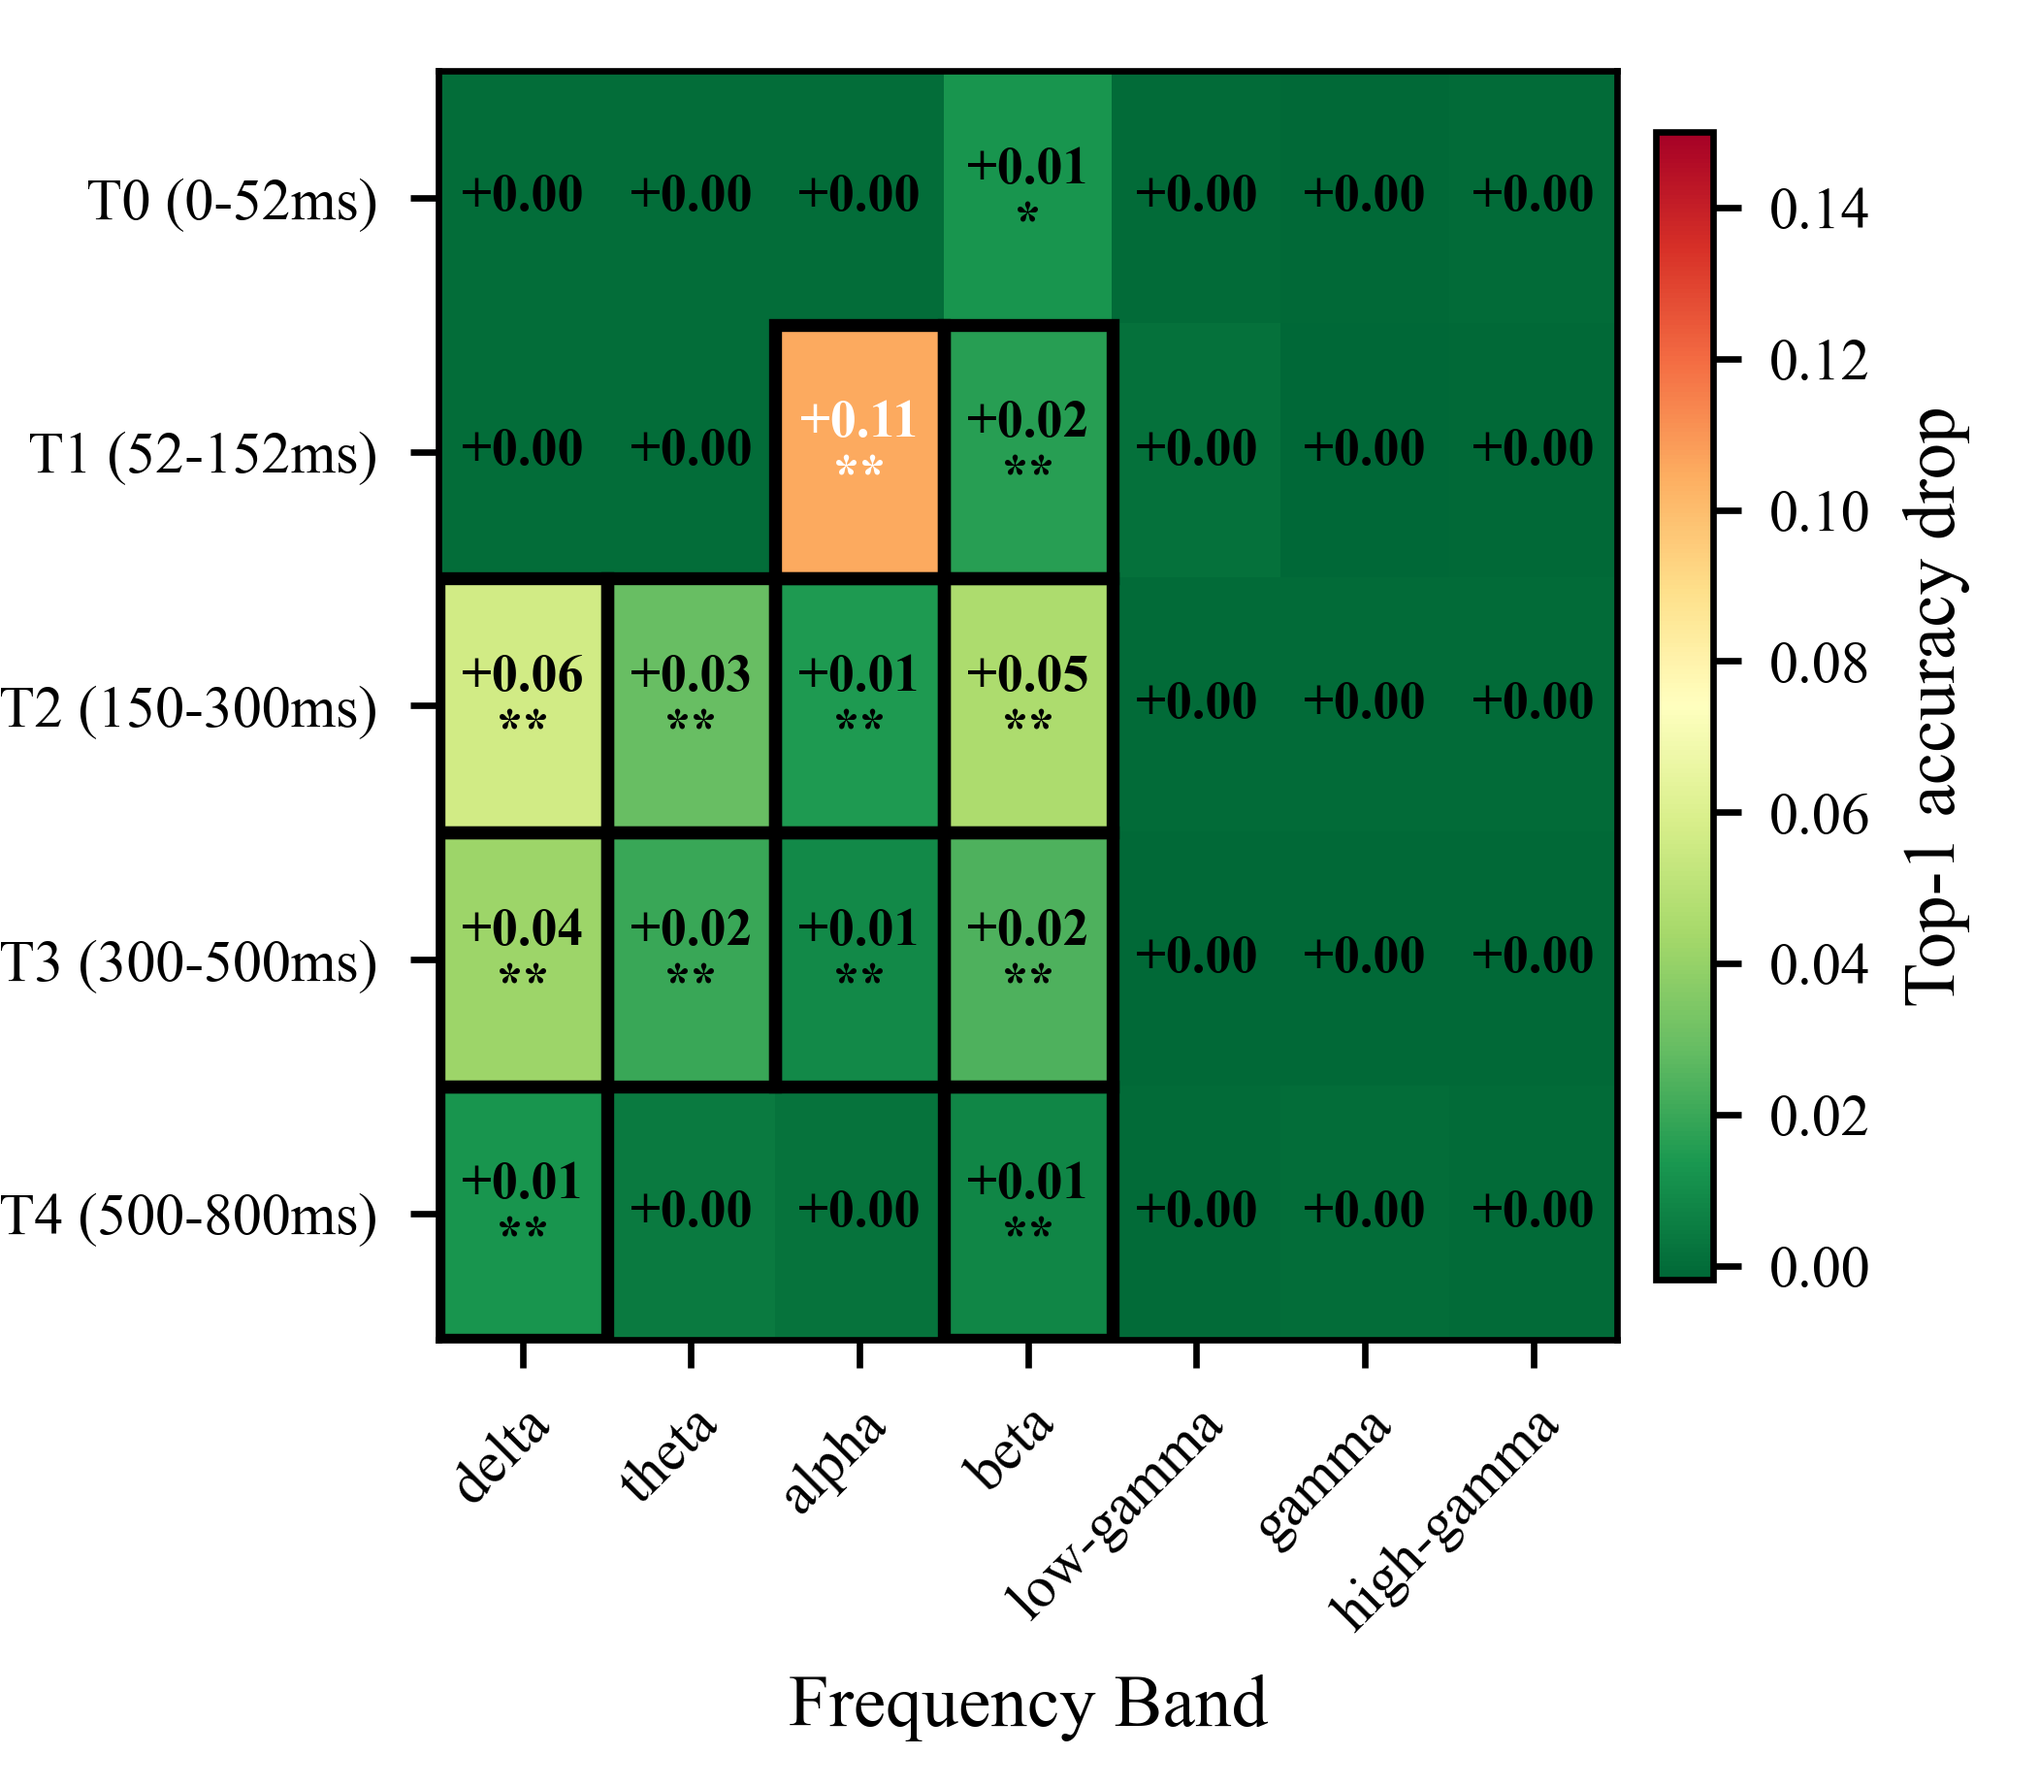
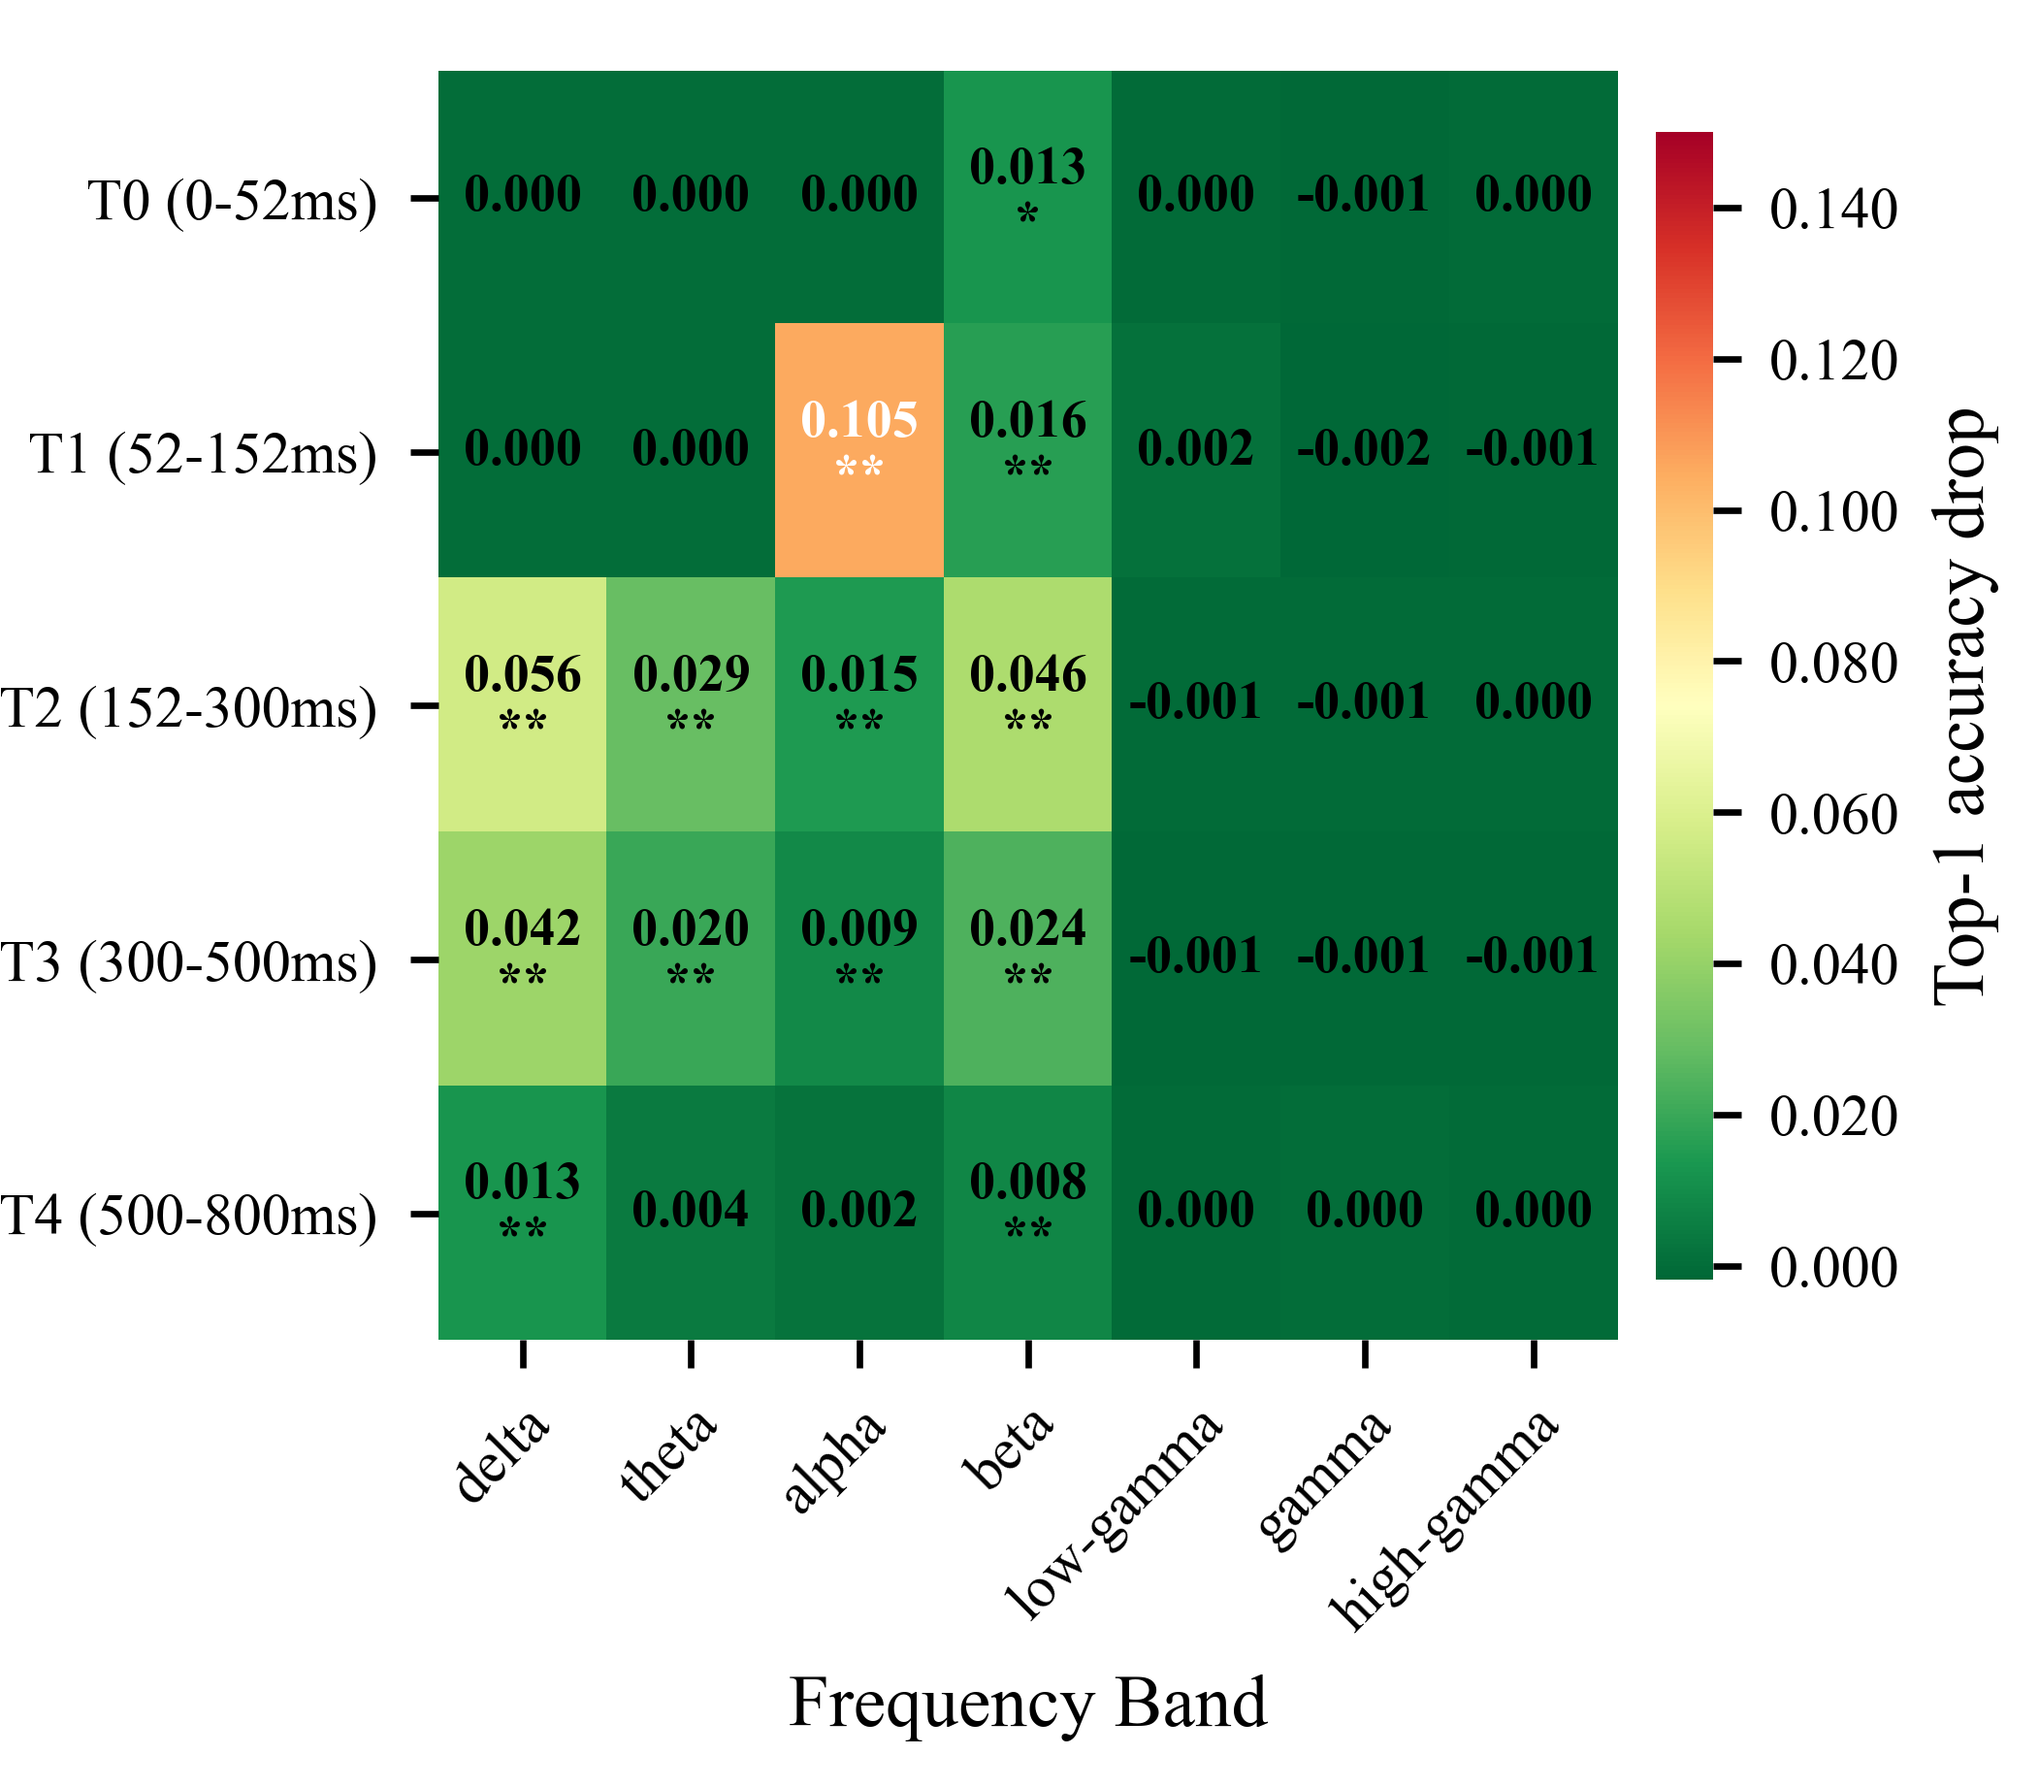
fix(temporal): correct T2 window label to 152-300ms and unify intra heatmap layout
- T2 y-tick label now shows the 152-300ms sample boundary instead of the nominal 150-300ms

- regenerate intra-subject heatmap in the unified paper layout (hidden spines, no significance frames)

diff --git a/scripts/temporal/plot_generalization_temporal.py b/scripts/temporal/plot_generalization_temporal.py
@@ -85,7 +85,7 @@ FB_ORDER = ["delta", "theta", "alpha", "beta", "low_gamma", "gamma", "high_gamma
 TW_SHORT_LABELS = {
     "T0_0-50ms": "T0 (0-52ms)",
     "T1_50-150ms": "T1 (52-152ms)",
-    "T2_150-300ms": "T2 (150-300ms)",
+    "T2_150-300ms": "T2 (152-300ms)",
     "T3_300-500ms": "T3 (300-500ms)",
     "T4_500-800ms": "T4 (500-800ms)",
 }
@@ -230,28 +230,32 @@ def plot_heatmap(stats_df: pd.DataFrame, setting: str, output_dir: Path) -> None
             if not row.empty:
                 matrix[row_idx, col_idx] = float(row.iloc[0]["mean1"])
 
+    display_matrix = matrix
     fig, ax = plt.subplots(
         figsize=(cm_to_inches(PAPER_WIDTH_CM), cm_to_inches(PAPER_HEIGHT_CM))
     )
-    vmax = max(0.15, np.nanmax(matrix)) if not np.all(np.isnan(matrix)) else 0.15
-    vmin = min(0.0, np.nanmin(matrix)) if not np.all(np.isnan(matrix)) else 0.0
-    image = ax.imshow(matrix, cmap="RdYlGn_r", aspect="auto", vmin=vmin, vmax=vmax, interpolation="nearest")
+    vmax = max(0.15, np.nanmax(display_matrix)) if not np.all(np.isnan(display_matrix)) else 0.15
+    vmin = min(0.0, np.nanmin(display_matrix)) if not np.all(np.isnan(display_matrix)) else 0.0
+    image = ax.imshow(display_matrix, cmap="RdYlGn_r", aspect="auto", vmin=vmin, vmax=vmax, interpolation="nearest")
 
     for row_idx, time_window in enumerate(TW_ORDER):
         for col_idx, freq_band in enumerate(FB_ORDER):
             cond_name = f"{time_window}__{freq_band}"
             row = stats_df[stats_df["name"] == cond_name]
-            value = matrix[row_idx, col_idx]
+            value = display_matrix[row_idx, col_idx]
             if np.isnan(value):
                 ax.text(col_idx, row_idx, "N/A", ha="center", va="center", fontsize=PAPER_CELL_TEXT_SIZE, color="gray")
                 continue
 
             color = "white" if abs(value) > vmax * 0.6 else "black"
-            # 并排布局下绘图区宽约 5cm, 7 列格宽不足以容纳 3 位小数 (6 字符),
-            # 故论文版保留 2 位小数 (5 字符), 精确值见正文 Table
-            text_value = f"{value:+.2f}"
-            if text_value == "-0.00":
-                text_value = "+0.00"
+            if setting == "inter-subjects":
+                text_value = f"{value:.3f}"
+                if text_value == "-0.000":
+                    text_value = "0.000"
+            else:
+                text_value = f"{value:+.2f}"
+                if text_value == "-0.00":
+                    text_value = "+0.00"
             if not row.empty and row.iloc[0]["sig"]:
                 text_value += f"\n{row.iloc[0]['sig']}"
             ax.text(
@@ -264,16 +268,6 @@ def plot_heatmap(stats_df: pd.DataFrame, setting: str, output_dir: Path) -> None
                 color=color,
                 fontweight="bold",
             )
-
-    if not np.all(np.isnan(matrix)):
-        for row_idx, time_window in enumerate(TW_ORDER):
-            for col_idx, freq_band in enumerate(FB_ORDER):
-                cond_name = f"{time_window}__{freq_band}"
-                row = stats_df[stats_df["name"] == cond_name]
-                if not row.empty and row.iloc[0]["sig"] == "**":
-                    ax.add_patch(
-                        plt.Rectangle((col_idx - 0.5, row_idx - 0.5), 1, 1, fill=False, edgecolor="black", linewidth=1.6)
-                    )
 
     ax.set_xticks(range(len(FB_ORDER)))
     ax.set_xticklabels(
@@ -294,8 +288,14 @@ def plot_heatmap(stats_df: pd.DataFrame, setting: str, output_dir: Path) -> None
 
     # 显式指定 fraction, 避免 colorbar 默认按比例二次压缩本已很窄的绘图区
     colorbar = fig.colorbar(image, ax=ax, fraction=0.045, pad=0.03)
+    colorbar.outline.set_visible(False)
     colorbar.set_label("Top-1 accuracy drop")
+    if setting == "inter-subjects":
+        colorbar.ax.yaxis.set_major_formatter("{x:.3f}")
     colorbar.ax.tick_params(labelsize=PAPER_TICK_LABEL_SIZE)
+
+    for spine in ax.spines.values():
+        spine.set_visible(False)
 
     fig.subplots_adjust(left=0.215, right=0.84, bottom=0.25, top=0.96)
     save_figure(fig, output_dir / f"group_{short_setting_name(setting)}_temporal_heatmap.png")
